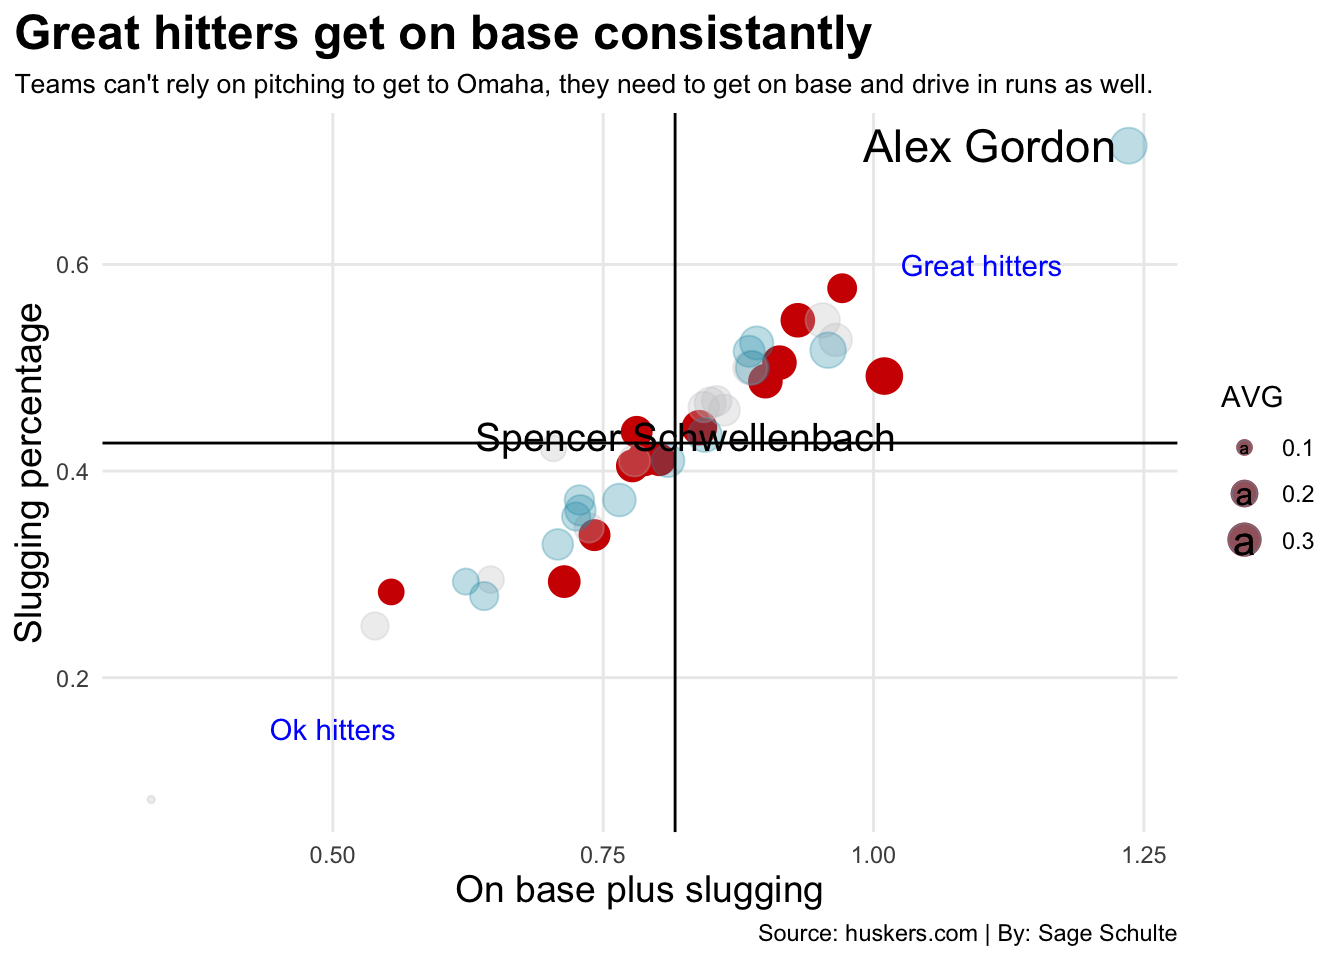
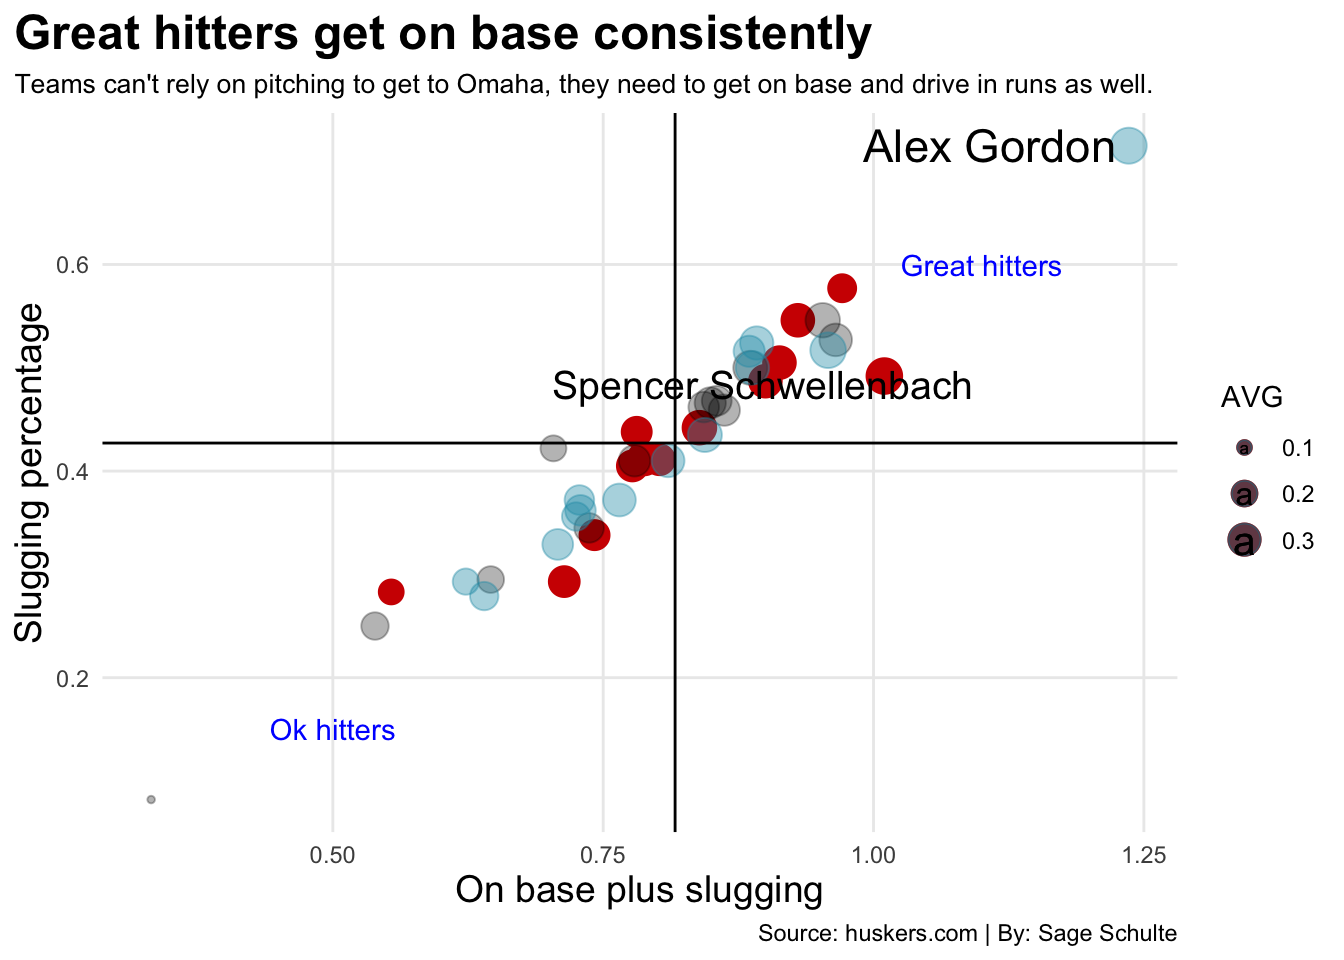
final draft

diff --git a/posts/nebraska-baseball-2024-2021-2005/index.html b/posts/nebraska-baseball-2024-2021-2005/index.html
@@ -189,7 +189,9 @@ pre > code.sourceCode > span > a:first-child::before { text-decoration: underlin
 
 
 
-<p>The University of Nebraska’s baseball team has not made it back to the College World Series since the 2005 season with Alex Gordon leading the them to Omaha. Why is that? Have</p>
+<p>The University of Nebraska’s baseball team has not made it back to the College World Series since the 2005 season with Alex Gordon leading them to Omaha. Why is that? Have the Huskers just been incredibly bad the past 19 years? Well, they have not been terrible, probably just some good old fashioned Husker luck, but as of late Will Bolt has been leading the baseball team in the right direction. Could the 2024 team be the first since 2005 to make it back to Omaha this year?</p>
+<p>The keys to having a deep run in the college baseball postseason is twofold. 1: have a good bullpen to limit opponents’ baserunners and runs and 2. an offense that gets on base frequently and can produce extra base hits with ease.</p>
+<p>Over the past couple of years under head coach Bolt, the bullpen has not been the best, although there have been some bright spots with Spencer Schwellenbach and Brett Sears but overall, the bullpen has been shaky in the 2020’s.</p>
 <div class="cell">
 <details class="code-fold">
 <summary>Code</summary>
@@ -262,7 +264,8 @@ pre > code.sourceCode > span > a:first-child::before { text-decoration: underlin
 </div>
 </div>
 </div>
-<p>text here.</p>
+<p>The pitching excellence corner are all the pitchers that have an ERA (earned run average) of less than or equal to 3.0 and a WHIP (walks plus hits per inning) of less than or equal to 1.25. The 2005 team had seven pitchers in the pitching excellence corner whereas the 2021 and 2024 team have a combined six pitchers in the same corner, three from each season.</p>
+<p>Let’s look at the offensive side of the diamond. Getting on base is one thing, but generating extra base hits often to drive in runs is what can be another deciding factor in a win or loss in each baseball game.</p>
 <div class="cell">
 <details class="code-fold">
 <summary>Code</summary>
@@ -356,7 +359,8 @@ pre > code.sourceCode > span > a:first-child::before { text-decoration: underlin
 </div>
 </div>
 </div>
-<p>text here.</p>
+<p>Alex Gordon and the 2005 baseball team have almost double the amount of extra base hits as the other two teams, but the 2024 season is still ongoing and the 2021 team did play less games as well since they only made it to the regional that year.</p>
+<p>Generating a lot of hits is one thing, it is another to do it on a consistent basis. Any team can have a couple of fluke games where the bats are on fire, but to be able to get on base and generate extra base hits with the whole one through nine line-up is a hard thing to do.</p>
 <div class="cell">
 <details class="code-fold">
 <summary>Code</summary>
@@ -373,8 +377,8 @@ pre > code.sourceCode > span > a:first-child::before { text-decoration: underlin
 <span id="cb3-11"><a href="#cb3-11" aria-hidden="true" tabindex="-1"></a></span>
 <span id="cb3-12"><a href="#cb3-12" aria-hidden="true" tabindex="-1"></a><span class="fu">ggplot</span>() <span class="sc">+</span></span>
 <span id="cb3-13"><a href="#cb3-13" aria-hidden="true" tabindex="-1"></a>  <span class="fu">geom_point</span>(<span class="at">data=</span>ab24, <span class="fu">aes</span>(<span class="at">x=</span>OPS, <span class="at">y=</span><span class="st">`</span><span class="at">SLG%</span><span class="st">`</span>, <span class="at">size=</span>AVG), <span class="at">color=</span><span class="st">"#d00000"</span>) <span class="sc">+</span></span>
-<span id="cb3-14"><a href="#cb3-14" aria-hidden="true" tabindex="-1"></a>  <span class="fu">geom_point</span>(<span class="at">data=</span>ab21, <span class="fu">aes</span>(<span class="at">x=</span>OPS, <span class="at">y=</span><span class="st">`</span><span class="at">SLG%</span><span class="st">`</span>, <span class="at">size=</span>AVG), <span class="at">color=</span><span class="st">"#c7c8ca"</span>, <span class="at">alpha=</span>.<span class="dv">3</span>) <span class="sc">+</span></span>
-<span id="cb3-15"><a href="#cb3-15" aria-hidden="true" tabindex="-1"></a>  <span class="fu">geom_point</span>(<span class="at">data=</span>ab05, <span class="fu">aes</span>(<span class="at">x=</span>OPS, <span class="at">y=</span><span class="st">`</span><span class="at">SLG%</span><span class="st">`</span>, <span class="at">size=</span>AVG), <span class="at">color=</span><span class="st">"#249ab5"</span>, <span class="at">alpha=</span>.<span class="dv">3</span>) <span class="sc">+</span></span>
+<span id="cb3-14"><a href="#cb3-14" aria-hidden="true" tabindex="-1"></a>  <span class="fu">geom_point</span>(<span class="at">data=</span>ab21, <span class="fu">aes</span>(<span class="at">x=</span>OPS, <span class="at">y=</span><span class="st">`</span><span class="at">SLG%</span><span class="st">`</span>, <span class="at">size=</span>AVG), <span class="at">color=</span><span class="st">"black"</span>, <span class="at">alpha=</span>.<span class="dv">3</span>) <span class="sc">+</span></span>
+<span id="cb3-15"><a href="#cb3-15" aria-hidden="true" tabindex="-1"></a>  <span class="fu">geom_point</span>(<span class="at">data=</span>ab05, <span class="fu">aes</span>(<span class="at">x=</span>OPS, <span class="at">y=</span><span class="st">`</span><span class="at">SLG%</span><span class="st">`</span>, <span class="at">size=</span>AVG), <span class="at">color=</span><span class="st">"#249ab5"</span>, <span class="at">alpha=</span>.<span class="dv">4</span>) <span class="sc">+</span></span>
 <span id="cb3-16"><a href="#cb3-16" aria-hidden="true" tabindex="-1"></a>  <span class="fu">geom_vline</span>(<span class="at">xintercept =</span> <span class="fl">0.8165</span>) <span class="sc">+</span></span>
 <span id="cb3-17"><a href="#cb3-17" aria-hidden="true" tabindex="-1"></a>  <span class="fu">geom_hline</span>(<span class="at">yintercept =</span> <span class="fl">0.4271429</span>) <span class="sc">+</span></span>
 <span id="cb3-18"><a href="#cb3-18" aria-hidden="true" tabindex="-1"></a>   <span class="fu">geom_text</span>(<span class="fu">aes</span>(<span class="at">x=</span> <span class="fl">1.1</span>, <span class="at">y=</span>.<span class="dv">6</span>, <span class="at">label=</span><span class="st">"Great hitters"</span>), <span class="at">color=</span><span class="st">"blue"</span>) <span class="sc">+</span></span>
@@ -384,7 +388,7 @@ pre > code.sourceCode > span > a:first-child::before { text-decoration: underlin
 <span id="cb3-22"><a href="#cb3-22" aria-hidden="true" tabindex="-1"></a><span class="fu">labs</span>(</span>
 <span id="cb3-23"><a href="#cb3-23" aria-hidden="true" tabindex="-1"></a>    <span class="at">x=</span><span class="st">"On base plus slugging"</span>,</span>
 <span id="cb3-24"><a href="#cb3-24" aria-hidden="true" tabindex="-1"></a>    <span class="at">y=</span><span class="st">"Slugging percentage"</span>,</span>
-<span id="cb3-25"><a href="#cb3-25" aria-hidden="true" tabindex="-1"></a>    <span class="at">title=</span><span class="st">"Great hitters get on base consistantly"</span>,</span>
+<span id="cb3-25"><a href="#cb3-25" aria-hidden="true" tabindex="-1"></a>    <span class="at">title=</span><span class="st">"Great hitters get on base consistently"</span>,</span>
 <span id="cb3-26"><a href="#cb3-26" aria-hidden="true" tabindex="-1"></a>    <span class="at">subtitle=</span><span class="st">"Teams can't rely on pitching to get to Omaha, they need to get on base and drive in runs as well."</span>,</span>
 <span id="cb3-27"><a href="#cb3-27" aria-hidden="true" tabindex="-1"></a>    <span class="at">caption=</span><span class="st">"Source: huskers.com | By: Sage Schulte"</span></span>
 <span id="cb3-28"><a href="#cb3-28" aria-hidden="true" tabindex="-1"></a>  ) <span class="sc">+</span></span>
@@ -405,7 +409,7 @@ pre > code.sourceCode > span > a:first-child::before { text-decoration: underlin
 </div>
 </div>
 </div>
-<p>text here</p>
+<p>So, is the 2024 Nebraska baseball team the best one since 2005? It is too early to tell as the season is still ongoing, but they have a shot at it as they are projected to either host a regional or be the second seed. If the 2021 team made it to the world series this debate would have probably never existed in the first place.</p>
 
 
 

diff --git a/index.html b/index.html
@@ -205,7 +205,7 @@ window.Quarto = {
 
 <div class="quarto-listing quarto-listing-container-default" id="listing-listing">
 <div class="list quarto-listing-default">
-<div class="quarto-post image-right" data-index="0" data-categories="Nebraska,Baseball" data-listing-date-sort="1714971600000" data-listing-file-modified-sort="1714952823130" data-listing-date-modified-sort="NaN" data-listing-reading-time-sort="5" data-listing-word-count-sort="870">
+<div class="quarto-post image-right" data-index="0" data-categories="Nebraska,Baseball" data-listing-date-sort="1714971600000" data-listing-file-modified-sort="1714955549076" data-listing-date-modified-sort="NaN" data-listing-reading-time-sort="7" data-listing-word-count-sort="1296">
 <div class="thumbnail">
 <p><a href="./posts/nebraska-baseball-2024-2021-2005/index.html" class="no-external"></a></p><a href="./posts/nebraska-baseball-2024-2021-2005/index.html" class="no-external">
 <p><img src="./posts/nebraska-baseball-2024-2021-2005/image.png" class="thumbnail-image"></p>
@@ -227,7 +227,7 @@ Baseball
 </div>
 </div>
 <div class="listing-description">
-<a href="./posts/nebraska-baseball-2024-2021-2005/index.html" class="no-external">The University of Nebraska’s baseball team has not made it back to the College World Series since the 2005 season with Alex Gordon leading the them to Omaha. Why is that? Have</a>
+<a href="./posts/nebraska-baseball-2024-2021-2005/index.html" class="no-external">The University of Nebraska’s baseball team has not made it back to the College World Series since the 2005 season with Alex Gordon leading them to Omaha. Why is that? Have…</a>
 </div>
 </div>
 <div class="metadata">
